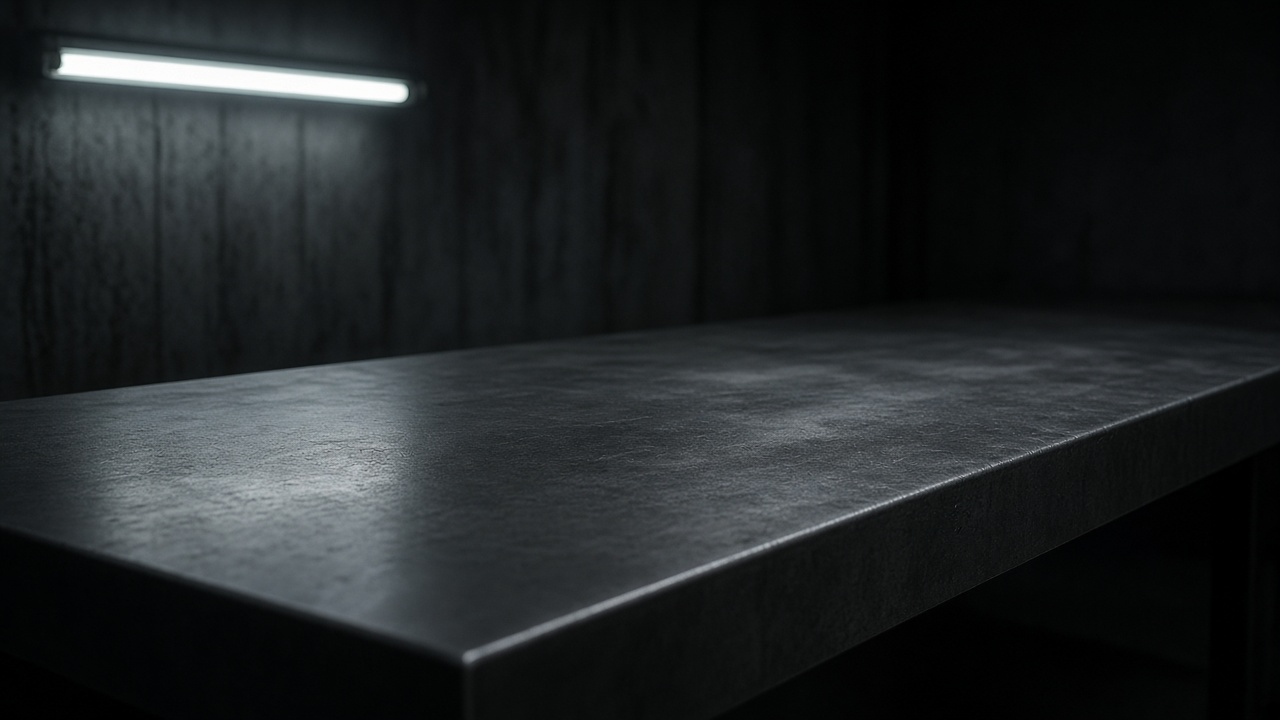
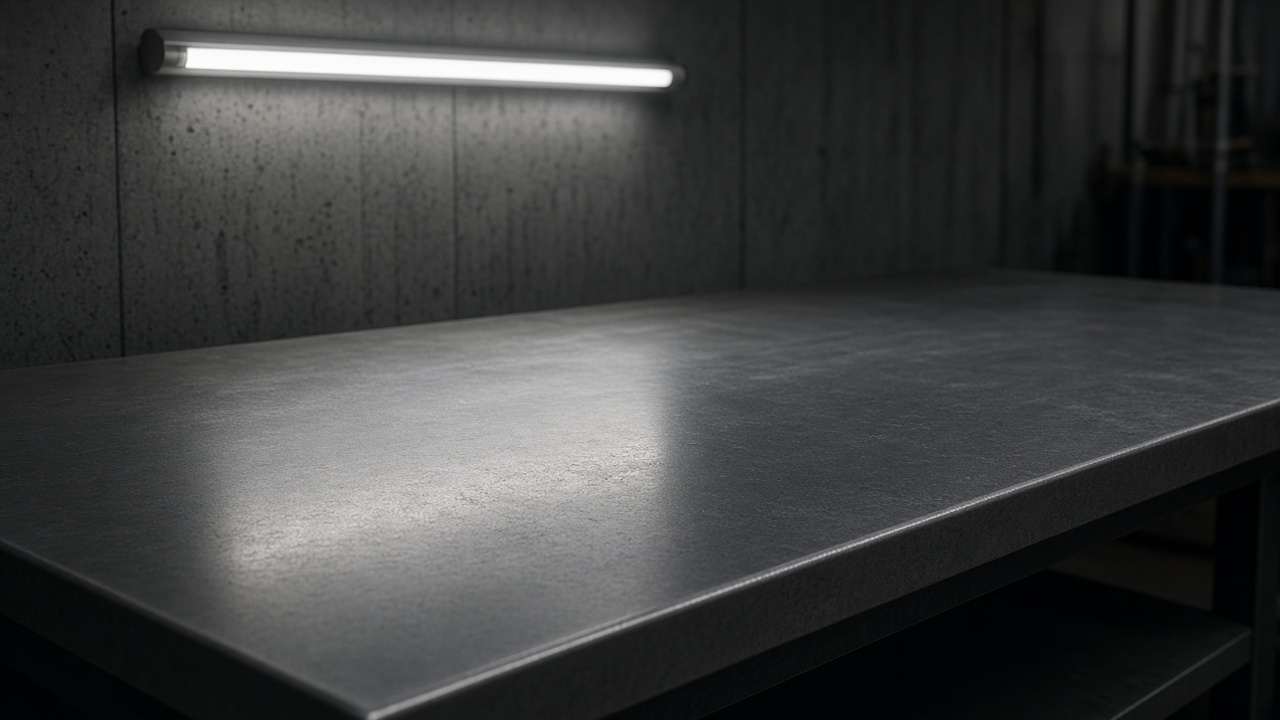
Keep the bench still visible under the living grain
The plate is a CSS photograph so the fold cannot go black if WebGL
fails. The shader only adds grain and tube flicker on top.

diff --git a/client/src/components/BenchField.tsx b/client/src/components/BenchField.tsx
@@ -14,7 +14,6 @@ precision highp float;
 uniform float u_time;
 uniform vec2 u_res;
 uniform vec2 u_mouse;
-uniform sampler2D u_plate;
 varying vec2 v_uv;
 
 float hash(vec2 p) {
@@ -23,22 +22,15 @@ float hash(vec2 p) {
 
 void main() {
   vec2 uv = v_uv;
-  vec2 par = (u_mouse - 0.5) * vec2(0.012, 0.008);
-  vec2 sampleUv = clamp(uv * 1.03 + vec2(-0.015, -0.01) + par, 0.0, 1.0);
-
-  vec3 plate = texture2D(u_plate, sampleUv).rgb;
-
-  // Keep the fluorescent tube; only breathe the light a fraction.
-  float flicker = 1.0 + sin(u_time * 2.1) * 0.012 + sin(u_time * 7.7) * 0.006;
-  plate *= flicker;
-
-  float grain = hash(uv * u_res * 0.55 + floor(u_time * 12.0));
-  plate += (grain - 0.5) * 0.028;
-
-  float vig = smoothstep(1.18, 0.28, length((uv - vec2(0.42, 0.4)) * vec2(1.05, 0.95)));
-  plate *= mix(0.82, 1.0, vig);
-
-  gl_FragColor = vec4(plate, 1.0);
+  float t = u_time;
+  float grain = hash(uv * u_res * 0.6 + floor(t * 14.0));
+  float tube = 1.0 - smoothstep(0.08, 0.42, distance(uv, vec2(0.46, 0.28)));
+  float breath = 0.5 + 0.5 * sin(t * 2.05) + 0.25 * sin(t * 7.4);
+  vec2 par = (u_mouse - 0.5) * 0.15;
+  float heat = tube * (0.10 + breath * 0.04) * (1.0 - distance(uv, 0.5 + par) * 0.35);
+  float alpha = 0.07 + grain * 0.10 + heat;
+  vec3 col = vec3(0.92, 0.91, 0.88) * (0.55 + grain * 0.45) + vec3(1.0, 0.99, 0.96) * heat;
+  gl_FragColor = vec4(col, clamp(alpha, 0.0, 0.22));
 }
 `;
 
@@ -54,15 +46,14 @@ function compile(gl: WebGLRenderingContext, type: number, source: string) {
   return shader;
 }
 
-export default function BenchField({ plate = "/generated/turbine_bench.png" }: { plate?: string }) {
+export default function BenchField() {
   const canvasRef = useRef<HTMLCanvasElement>(null);
 
   useEffect(() => {
     const canvas = canvasRef.current;
     if (!canvas) return;
-    canvas.style.opacity = "0";
 
-    const gl = canvas.getContext("webgl", { alpha: false, antialias: true, premultipliedAlpha: false });
+    const gl = canvas.getContext("webgl", { alpha: true, antialias: true, premultipliedAlpha: true });
     if (!gl) return;
 
     const vs = compile(gl, gl.VERTEX_SHADER, VERT);
@@ -84,28 +75,10 @@ export default function BenchField({ plate = "/generated/turbine_bench.png" }: {
     gl.enableVertexAttribArray(loc);
     gl.vertexAttribPointer(loc, 2, gl.FLOAT, false, 0, 0);
 
-    const texture = gl.createTexture();
-    gl.bindTexture(gl.TEXTURE_2D, texture);
-    gl.texImage2D(gl.TEXTURE_2D, 0, gl.RGBA, 1, 1, 0, gl.RGBA, gl.UNSIGNED_BYTE, new Uint8Array([7, 8, 10, 255]));
-    gl.texParameteri(gl.TEXTURE_2D, gl.TEXTURE_MIN_FILTER, gl.LINEAR);
-    gl.texParameteri(gl.TEXTURE_2D, gl.TEXTURE_MAG_FILTER, gl.LINEAR);
-    gl.texParameteri(gl.TEXTURE_2D, gl.TEXTURE_WRAP_S, gl.CLAMP_TO_EDGE);
-    gl.texParameteri(gl.TEXTURE_2D, gl.TEXTURE_WRAP_T, gl.CLAMP_TO_EDGE);
-
-    const image = new Image();
-    image.onload = () => {
-      gl.bindTexture(gl.TEXTURE_2D, texture);
-      gl.pixelStorei(gl.UNPACK_FLIP_Y_WEBGL, 1);
-      gl.texImage2D(gl.TEXTURE_2D, 0, gl.RGBA, gl.RGBA, gl.UNSIGNED_BYTE, image);
-      canvas.style.opacity = "1";
-    };
-    image.src = plate;
-
     const uTime = gl.getUniformLocation(program, "u_time");
     const uRes = gl.getUniformLocation(program, "u_res");
     const uMouse = gl.getUniformLocation(program, "u_mouse");
-    const uPlate = gl.getUniformLocation(program, "u_plate");
-    const mouse = { x: 0.42, y: 0.48 };
+    const mouse = { x: 0.46, y: 0.42 };
 
     const onMove = (event: PointerEvent) => {
       const box = canvas.getBoundingClientRect();
@@ -128,13 +101,13 @@ export default function BenchField({ plate = "/generated/turbine_bench.png" }: {
     const reduceMotion = window.matchMedia("(prefers-reduced-motion: reduce)").matches;
     let frame = 0;
     const draw = (now: number) => {
+      gl.viewport(0, 0, canvas.width, canvas.height);
+      gl.clearColor(0, 0, 0, 0);
+      gl.clear(gl.COLOR_BUFFER_BIT);
       gl.useProgram(program);
       gl.uniform1f(uTime, reduceMotion ? 0 : (now - start) / 1000);
       gl.uniform2f(uRes, canvas.width, canvas.height);
       gl.uniform2f(uMouse, mouse.x, mouse.y);
-      gl.activeTexture(gl.TEXTURE0);
-      gl.bindTexture(gl.TEXTURE_2D, texture);
-      gl.uniform1i(uPlate, 0);
       gl.drawArrays(gl.TRIANGLES, 0, 3);
       if (!reduceMotion) frame = requestAnimationFrame(draw);
     };
@@ -148,7 +121,7 @@ export default function BenchField({ plate = "/generated/turbine_bench.png" }: {
       gl.deleteShader(vs);
       gl.deleteShader(fs);
     };
-  }, [plate]);
+  }, []);
 
   return <canvas ref={canvasRef} className="lg-field" aria-hidden="true" />;
 }

diff --git a/client/src/pages/home.css b/client/src/pages/home.css
@@ -290,7 +290,7 @@
   position: absolute;
   inset: 0;
   z-index: 0;
-  background: #07080b;
+  background: #0a0c0e url("/generated/turbine_bench.png") 48% 62% / cover no-repeat;
 }
 
 .lg-desk-field .lg-field,
@@ -301,13 +301,17 @@
   width: 100%;
   height: 100%;
   object-fit: cover;
-  object-position: 42% 58%;
+  object-position: 48% 62%;
+}
+
+.lg-desk-field .lg-field-fallback {
+  z-index: 0;
 }
 
 .lg-desk-field .lg-field {
   z-index: 1;
-  opacity: 0;
-  transition: opacity 280ms linear;
+  opacity: 1;
+  pointer-events: none;
 }
 
 .lg-desk .lg-nav {
@@ -345,11 +349,11 @@
   display: flex;
   flex: 1;
   align-items: center;
-  justify-content: flex-end;
+  justify-content: center;
   min-height: 0;
   width: min(100% - (var(--gutter) * 2), var(--max));
   margin: 0 auto;
-  padding: 0 2vw 8vh 0;
+  padding: 0 0 7vh;
   perspective: 1680px;
 }
 
@@ -374,9 +378,6 @@
 }
 
 .lg-desk-slip h1 {
-  display: flex;
-  align-items: center;
-  gap: 0.12em;
   margin: 0 0 0.45rem;
   color: #141310;
   font-family: var(--sans);
@@ -384,6 +385,12 @@
   font-weight: 400;
   line-height: 0.95;
   letter-spacing: -0.04em;
+}
+
+.lg-desk-slip h1 span {
+  display: inline-flex;
+  align-items: center;
+  white-space: nowrap;
 }
 
 .lg-desk-slip .lg-zero-hero {

diff --git a/client/src/pages/Home.tsx b/client/src/pages/Home.tsx
@@ -264,7 +264,7 @@ export default function Home() {
       <div className="lg-sheet lg-desk">
         <div className="lg-desk-field">
           <img className="lg-field-fallback" src="/generated/turbine_bench.png" alt="" />
-          <BenchField plate="/generated/turbine_bench.png" />
+          <BenchField />
         </div>
 
         <header className="lg-nav">
@@ -310,7 +310,11 @@ export default function Home() {
         <section id="top" className="lg-desk-stage">
           <article className="lg-desk-slip" aria-label="Example attestation">
             <h1>
-              Held to <ZeroMark className="lg-zero-hero" />.
+              <span>
+                Held to
+                <ZeroMark className="lg-zero-hero" />
+                .
+              </span>
             </h1>
             <p>Private inference with a cryptographic receipt.</p>
             <header>
